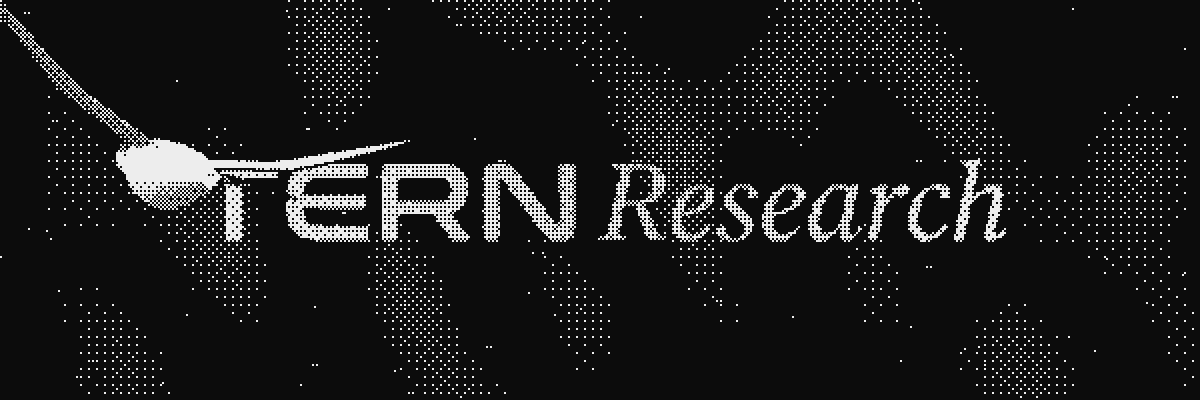
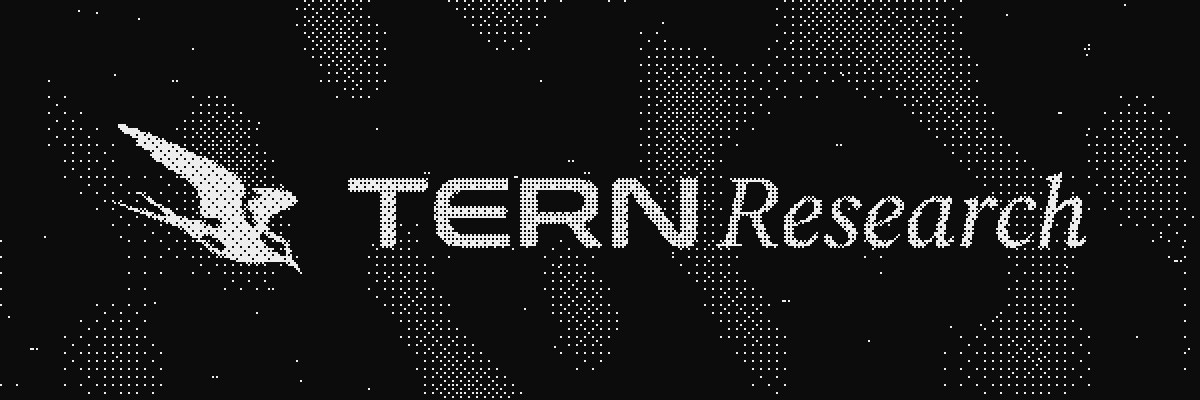
docs(brand): tern flies in and lands as the original mark in the README hero

diff --git a/assets/brand/src/dither_hero.py b/assets/brand/src/dither_hero.py
@@ -1,11 +1,11 @@
 # Renders the animated dither hero at the top of the README.
 #
-# A procedural 3D tern (lofted body, black cap, beak, forked tail streamers,
-# articulated wings with shoulder, elbow and wrist) flies a loop around the
-# TERN Research wordmark. The wordmark is a plane in the same 3D space, so the
-# bird passes in front of it and behind it with true per-pixel depth. Banking
-# follows the turn (coordinated-turn physics), the head is stabilised while the
-# body bobs, and the hand lags the arm so the wing bends like a real wing.
+# Story (16 s loop): the wordmark sits alone in a live dither sky. A procedural
+# 3D tern (lofted body, black cap, beak, tail streamers, wings jointed at the
+# shoulder, elbow and wrist) flies in, loops behind the wordmark and back in
+# front of it, banks into its turns, then glides into the logo's place and
+# settles into the exact original mark. The sky stays alive and a shimmer runs
+# across the mark until the mark fades and the tern flies in again.
 # The lit frame is reduced to two tones with an 8x8 Bayer ordered dither.
 #
 # Requires: Python 3.10+, numpy, pillow, scipy, numba.
@@ -23,7 +23,9 @@ OUT = BR
 GW, GH = 600, 200            # dither grid
 SS = 2                       # supersampling for the 3D render
 PX = 2                       # output pixel size -> 1200 x 400
-N = 200                      # frames: 8 s at 25 fps, seamless loop
+FPS = 20
+DUR = 16.0                   # seconds per loop
+N = int(FPS*DUR)
 TAU = 2*np.pi
 RW, RH = GW*SS, GH*SS
 FOC = 820.0*SS/2             # focal length in render pixels
@@ -151,43 +153,88 @@ def tail_mesh(spread):
         T.append(t_ + sum(len(x) for x in V)); V.append(v_); A.append(a_)
     return np.vstack(V), np.concatenate(A), np.vstack(T)
 
+# ------------------------------------------------------------------ timeline (seconds)
+T_GLIDE = 4.6     # last wingbeat ends, wings held raised for the landing
+T_LAND = 5.6      # bird reaches the logo position
+X0, X1 = 5.0, 5.9 # 3D bird dissolves into the flat mark
+F0, F1 = 15.2, 16.0  # mark fades out before the next flight
+BEATS = 11
+def smooth(a, b, x):
+    u = np.clip((x-a)/(b-a), 0, 1); return u*u*(3-2*u)
+
 def bird_mesh(t):
-    beats = 18
-    phase = (beats*t) % 1.0
-    amp = 0.85 + 0.15*np.cos(TAU*t)
+    phase = (BEATS/T_GLIDE*min(t, T_GLIDE)) % 1.0
+    amp = 1.0
     ph = TAU*phase
-    head_pitch = -0.10*np.cos(ph)              # counter-rotates against the bob
+    head_pitch = -0.10*np.cos(ph)*(1-smooth(4.2, T_GLIDE, t))
     parts = [body_mesh(head_pitch), wing_mesh(1, phase, amp), wing_mesh(-1, phase, amp),
-             tail_mesh(0.5 + 0.5*np.sin(TAU*t))]
+             tail_mesh(0.3 + 0.7*smooth(4.4, T_LAND, t))]
     V, A, T, off = [], [], [], 0
     for v, a, tr in parts:
         V.append(v); A.append(a); T.append(tr + off); off += len(v)
     V = np.vstack(V); A = np.concatenate(A); T = np.vstack(T)
-    # body bob (rises on the downstroke) and slight pitch
-    V = V @ rz(0.05*np.sin(ph)).T
-    V[:, 1] += 0.035*np.cos(ph)
+    k = 1 - smooth(4.2, T_GLIDE, t)
+    V = V @ rz(0.05*np.sin(ph)*k).T
+    V[:, 1] += 0.035*np.cos(ph)*k
     return V, A, T
 
+# ------------------------------------------------------------------ lockup layout
+lk = Image.open(BR + "tern-lockup-on-dark.png")
+LA = np.array(lk.split()[-1]).astype(float)/255.0       # 136 x 743, mark cols < 170
+LK = 38*SS/56.0                                    # render px per lockup px
+LKW, LKH = int(LA.shape[1]*LK), int(LA.shape[0]*LK)
+LAr = np.array(Image.fromarray((LA*255).astype(np.uint8)).resize((LKW, LKH), Image.LANCZOS))/255.0
+LX, LY = (RW-LKW)//2, (RH-LKH)//2
+CUT = int(170*LK)
+MARK = np.zeros((RH, RW)); TEXT = np.zeros((RH, RW))
+MARK[LY:LY+LKH, LX:LX+CUT] = LAr[:, :CUT]
+TEXT[LY:LY+LKH, LX+CUT:LX+LKW] = LAr[:, CUT:]
+_my, _mx = np.where(MARK > 0.5)
+MARK_BOX = (_mx.min(), _mx.max(), _my.min(), _my.max())
+
+def to_world(px, py, z):
+    return np.array([(px-RW/2)*z/FOC, -(py-RH/2)*z/FOC + CAM_Y, z])
+
 # ------------------------------------------------------------------ flight path
+Z_END = 4.0
+DIVE = nrm(np.array([1.0, -0.62, 0.0]))
+def ctrl(M):
+    return np.array([[-9.0, 1.6, 11.0], [-2.5, 1.1, 9.6], [3.0, 0.55, 8.2], [3.0, -0.40, 5.2],
+                     [0.6, -0.85, 4.5], [-1.9, -0.1, 4.6], [M[0]-1.6, M[1]+1.0, Z_END+0.15],
+                     M, M + DIVE*1.2])
+def catmull(P, u):
+    n = len(P) - 3                      # segments between P[1]..P[-2]
+    u = np.clip(u, 0, 1)*n; i = min(int(u), n-1); f = u - i
+    p0, p1, p2, p3 = P[i], P[i+1], P[i+2], P[i+3]
+    return 0.5*((2*p1) + (-p0+p2)*f + (2*p0-5*p1+4*p2-p3)*f*f + (-p0+3*p1-3*p2+p3)*f*f*f)
+def u_of(t):
+    s = np.clip(t/T_LAND, 0, 1)
+    return 1 - (1-s)**1.7               # decelerates into the landing
+
+M_WORLD = to_world((MARK_BOX[0]+MARK_BOX[1])/2, (MARK_BOX[2]+MARK_BOX[3])/2, Z_END)
+CP = ctrl(M_WORLD)
 def path(t):
-    th = TAU*t
-    X = 3.1*np.sin(th)
-    Z = Z0 + 2.8*np.cos(th)
-    Y = 0.12 + 0.32*np.sin(2*th) + 0.12*np.cos(th)
-    return np.array([X, Y, Z])
+    return catmull(CP, u_of(t))
 
 def pose(t):
     e = 1e-3
+    if t >= T_LAND - 0.02:
+        f = DIVE
+        up = nrm(np.array([0, 1.0, 0]) - np.dot([0, 1.0, 0], f)*f)
+        return path(T_LAND), np.stack([f, up, np.cross(f, up)], axis=1)
     p = path(t); v = (path(t+e) - path(t-e))/(2*e); a = (path(t+e) - 2*p + path(t-e))/(e*e)
     f = nrm(v)
-    g = np.array([0.0, 9.0, 0.0])               # "gravity" scale vs path accel
+    k = 1 - smooth(4.4, T_LAND, t)
+    f = nrm(f*(1-(1-k)) + DIVE*(1-k)) if k < 1 else f
     a_lat = a - np.dot(a, f)*f
-    up = g + a_lat*0.022
+    up = np.array([0.0, 9.0, 0.0]) + a_lat*0.0018*k
     up = nrm(up - np.dot(up, f)*f)
-    side = np.cross(f, up)
-    return p, np.stack([f, up, side], axis=1)   # columns: local x, y, z in world
+    return p, np.stack([f, up, np.cross(f, up)], axis=1)
 
-SCALE = 1.05                                    # bird size in world units
+S_FLY = 1.05
+S_END = 1.0       # calibrated below so the landed bird matches the mark's size
+def scale_at(t):
+    return S_FLY + (S_END - S_FLY)*smooth(3.4, T_LAND, t)
 
 # ------------------------------------------------------------------ raster
 @njit
@@ -222,10 +269,12 @@ def vertex_normals(V, T):
 
 LIGHT = nrm(np.array([-0.45, 0.85, -0.55]))     # from upper left, camera side
 
-def render_bird(t):
+def render_bird(t, scale=None, offset=(0.0, 0.0)):
     V, A, T = bird_mesh(t)
     p, R = pose(t)
-    W_ = (V*SCALE) @ R.T + p
+    sc = scale_at(t) if scale is None else scale
+    W_ = (V*sc) @ R.T + p
+    W_[:, 0] += offset[0]*smooth(3.4, T_LAND, t); W_[:, 1] += offset[1]*smooth(3.4, T_LAND, t)
     Nl = vertex_normals(V, T) @ R.T
     cam = np.array([0.0, CAM_Y, 0.0])
     view = cam - W_; view /= np.linalg.norm(view, axis=1, keepdims=True)
@@ -242,15 +291,19 @@ def render_bird(t):
     raster(sx, sy, W_[:, 2].copy(), inten, T.astype(np.int64), zbuf, cbuf)
     return zbuf, cbuf, p
 
-# ------------------------------------------------------------------ wordmark plane
-lk = Image.open(BR + "tern-lockup-on-dark.png")
-a = np.array(lk.split()[-1])
-txt = Image.fromarray(a[:, 180:]); txt = txt.crop(txt.getbbox())
-TXT_H = 42*SS
-txt = txt.resize((int(txt.width*TXT_H/txt.height), TXT_H), Image.LANCZOS)
-TM = np.array(txt)/255.0
-TXT_X = (RW - TM.shape[1])//2; TXT_Y = (RH - TXT_H)//2
-TEXT = np.zeros((RH, RW)); TEXT[TXT_Y:TXT_Y+TXT_H, TXT_X:TXT_X+TM.shape[1]] = TM
+# ------------------------------------------------------------------ landing calibration
+def _calibrate():
+    global S_END, OFFSET
+    OFFSET = (0.0, 0.0)
+    z, _, _ = render_bird(T_LAND, scale=1.0)
+    ys, xs = np.where(np.isfinite(z))
+    S_END = (MARK_BOX[1]-MARK_BOX[0])*0.98/(xs.max()-xs.min())
+    z, _, _ = render_bird(T_LAND, scale=S_END)
+    ys, xs = np.where(np.isfinite(z))
+    dx = (MARK_BOX[0]+MARK_BOX[1])/2 - (xs.min()+xs.max())/2
+    dy = (MARK_BOX[2]+MARK_BOX[3])/2 - (ys.min()+ys.max())/2
+    OFFSET = (dx*Z_END/FOC, -dy*Z_END/FOC)
+OFFSET = (0.0, 0.0)
 
 # ------------------------------------------------------------------ atmosphere
 yy, xx = np.mgrid[0:GH, 0:GW].astype(float)
@@ -266,7 +319,8 @@ NP = 120
 p0x = rng.uniform(0, GW, NP); p0y = rng.uniform(0, GH, NP)
 pv = rng.integers(1, 4, NP); pb = rng.uniform(0.3, 0.9, NP); pl = rng.integers(1, 6, NP)
 
-def frame(t, invert=False):
+def frame(sec, invert=False):
+    t = sec/DUR                                   # loop phase for the sky
     fog = pnoise(xx, yy, t, 3)*0.5 + pnoise(xx*1.7, yy*1.7, t, 11)*0.5
     fog = np.clip((fog - 0.05)*0.40, 0, 0.20)
     vig = np.clip(1.15 - (((xx-GW/2)/(GW*0.62))**2 + ((yy-GH/2)/(GH*0.9))**2), 0, 1)
@@ -278,21 +332,41 @@ def frame(t, invert=False):
             for k in range(pl[i]):
                 img[yi, (xi+k) % GW] = max(img[yi, (xi+k) % GW], pb[i]*(1 - k/pl[i])*0.7)
 
-    zbuf, cbuf, p = render_bird(t)
-    bird = np.isfinite(zbuf)
-    front = bird & (zbuf < Z0)
-    tmask = TEXT > 0.4
-    shim = 0.84 + 0.12*np.sin(TAU*2*t + np.linspace(0, TAU, RW))[None, :]
     hi = np.zeros((RH, RW)); cov = np.zeros((RH, RW), bool)
-    # behind-the-text bird, then text with a thin dark gap, then the front bird
+    tmask = TEXT > 0.4
+    tshim = 0.86 + 0.08*np.sin(TAU*sec/4.0 + np.linspace(0, TAU, RW))[None, :]
+    w = smooth(X0, X1, sec)                       # bird -> mark
+    fade = 1 - smooth(F0, F1, sec)                # mark fades before the loop restarts
+    if sec < X1:
+        zbuf, cbuf, _ = render_bird(min(sec, T_LAND), offset=OFFSET)
+        bird = np.isfinite(zbuf)
+    else:
+        bird = np.zeros((RH, RW), bool); zbuf = None; cbuf = None
+    front = bird & (zbuf < Z0) if zbuf is not None else bird
     behind = bird & ~front
-    hi[behind] = cbuf[behind]; cov |= behind
-    tgap = ndimage.binary_dilation(tmask, iterations=3) & behind & ~tmask
-    hi[tgap] = 0; cov |= tgap
-    hi[tmask] = (TEXT*shim)[tmask]; cov |= tmask
-    fgap = ndimage.binary_dilation(front, iterations=3) & ~front & tmask
-    hi[fgap] = 0
-    hi[front] = cbuf[front]; cov |= front
+    if behind.any():
+        hi[behind] = cbuf[behind]; cov |= behind
+        tgap = ndimage.binary_dilation(tmask, iterations=3) & behind & ~tmask
+        hi[tgap] = 0; cov |= tgap
+    hi[tmask] = (TEXT*tshim)[tmask]; cov |= tmask
+    if front.any():
+        fgap = ndimage.binary_dilation(front, iterations=3) & ~front & tmask
+        hi[fgap] = 0
+        hi[front] = cbuf[front]*(1-w); cov |= front
+    if w > 0 and fade > 0:
+        mmask = MARK > 0.4
+        # shimmer: a soft light band sweeps diagonally across the mark every 2.6 s
+        hold = max(0.0, sec - X1)
+        pos = ((hold/2.6) % 1.0)*1.6 - 0.3
+        gx = (np.arange(RW) - MARK_BOX[0])/(MARK_BOX[1]-MARK_BOX[0])
+        gy = (np.arange(RH) - MARK_BOX[2])/(MARK_BOX[3]-MARK_BOX[2])
+        d = gx[None, :]*0.8 + gy[:, None]*0.45 - pos
+        band = np.exp(-(d/0.07)**2) - 0.5*np.exp(-((d+0.12)/0.05)**2)
+        mval = np.clip(0.90 + 0.25*band*(hold > 0), 0, 1)*MARK
+        m_on = mmask
+        prev = hi[m_on]
+        hi[m_on] = np.maximum(prev*(1-w), mval[m_on]*w*fade)
+        cov |= m_on
     # down to the dither grid
     hs = hi.reshape(GH, SS, GW, SS).mean(axis=(1, 3))
     cs = cov.reshape(GH, SS, GW, SS).mean(axis=(1, 3))
@@ -302,11 +376,13 @@ def frame(t, invert=False):
     out = np.empty((GH, GW, 3), np.uint8); out[:] = bg; out[bits] = fg
     return Image.fromarray(out).resize((GW*PX, GH*PX), Image.NEAREST)
 
+_calibrate()
+
 if __name__ == "__main__":
     for name, inv in [("dark", False), ("light", True)]:
-        frames = [frame(i/N, inv).convert("P", palette=Image.ADAPTIVE, colors=2) for i in range(N)]
+        frames = [frame(i/FPS, inv).convert("P", palette=Image.ADAPTIVE, colors=2) for i in range(N)]
         path_ = OUT + f"tern-hero-{name}.gif"
-        frames[0].save(path_, save_all=True, append_images=frames[1:], duration=40, loop=0,
+        frames[0].save(path_, save_all=True, append_images=frames[1:], duration=int(1000/FPS), loop=0,
                        optimize=True, disposal=1)
-        frame(0.62, inv).save(OUT + f"tern-hero-still-{name}.png")
+        frame(9.0, inv).save(OUT + f"tern-hero-still-{name}.png")
         print(path_, os.path.getsize(path_))

diff --git a/CHANGELOG.md b/CHANGELOG.md
@@ -6,7 +6,7 @@ All notable changes to Tern are documented here. The format follows [Keep a Chan
 
 ### Changed
 
-- README header is now an animated dither scene (dark and light, 8 s loop): a procedural 3D tern with jointed wings flies a loop around the wordmark, banking into its turns and passing in front of the text and behind it with true depth. Replaces the static lockup and the text-art banner; generator script in `assets/brand/src/`.
+- README header is now an animated dither scene (dark and light, 16 s loop): a procedural 3D tern with jointed wings flies around the wordmark, in front of the text and behind it, then lands in the logo position and becomes the original mark, which shimmers while the sky stays live. Replaces the static lockup and the text-art banner; generator script in `assets/brand/src/`.
 - UI definition: live working line (tern mark animated per agent state beside a shimmering status phrase), message actions (swipe or button reply, copy, multi-branch), and composer input (attachments, long paste to `.txt`, `@` prompt or context roles, locked mic).
 - Product spec: topic branching into several sub-sessions at once, file intake for any parseable file, recursive archive and folder reading, voice input planned with a transcription model.
 - UI definition revised after the v2 concept review: ChatGPT-style title bar, icon rail and sidebar; Research │ Study toggle at the top of the chat area; session tabs; responsive composer rules; providers screen with logo rows, `Add` and toggles; Hoplite-style model picker; context ring and popover in the composer; Git and GitHub panel; Explain in 3D as its own mode; motion and theme-switch benchmarks.

diff --git a/assets/brand/README.md b/assets/brand/README.md
@@ -10,7 +10,7 @@ Reserved brand property. See the brand clause in [LICENSE](../../LICENSE). Do no
 | `tern-lockup-on-dark.png` | Dark lockup on a transparent background, trimmed | README header in dark mode |
 | `tern-lockup-on-light.png` | Light lockup on a transparent background, trimmed | README header in light mode |
 | `tern-app-icon.png` | App icon, 512 × 512 | Desktop app icon (planned) |
-| `tern-hero-dark.gif` | Animated dither scene, 1200 × 400, 200 frames, 8 s seamless loop. A procedural 3D tern (lofted body, black cap, beak, tail streamers, wings jointed at shoulder, elbow and wrist that fold on the upstroke) flies a loop around the wordmark, banking into its turns, passing in front of the text and behind it with true depth | README header in dark mode |
+| `tern-hero-dark.gif` | Animated dither scene, 1200 × 400, 320 frames, 16 s loop. A procedural 3D tern with jointed wings flies in, loops behind and in front of the wordmark, banks into its turns, then glides into the logo position and settles into the original mark. The sky stays live and a shimmer sweeps across the mark until it fades and the flight repeats | README header in dark mode |
 | `tern-hero-light.gif` | Same hero, ink on paper | README header in light mode |
 | `tern-hero-still-dark.png` / `-light.png` | One still frame of the hero | Social preview, reduced-motion fallback |
 | `src/dither_hero.py` | Generator for the hero files (software 3D render of the bird and wordmark plane, then 8 × 8 Bayer ordered dither; needs numpy, pillow, scipy, numba) | Re-render after any mark or wordmark change |
